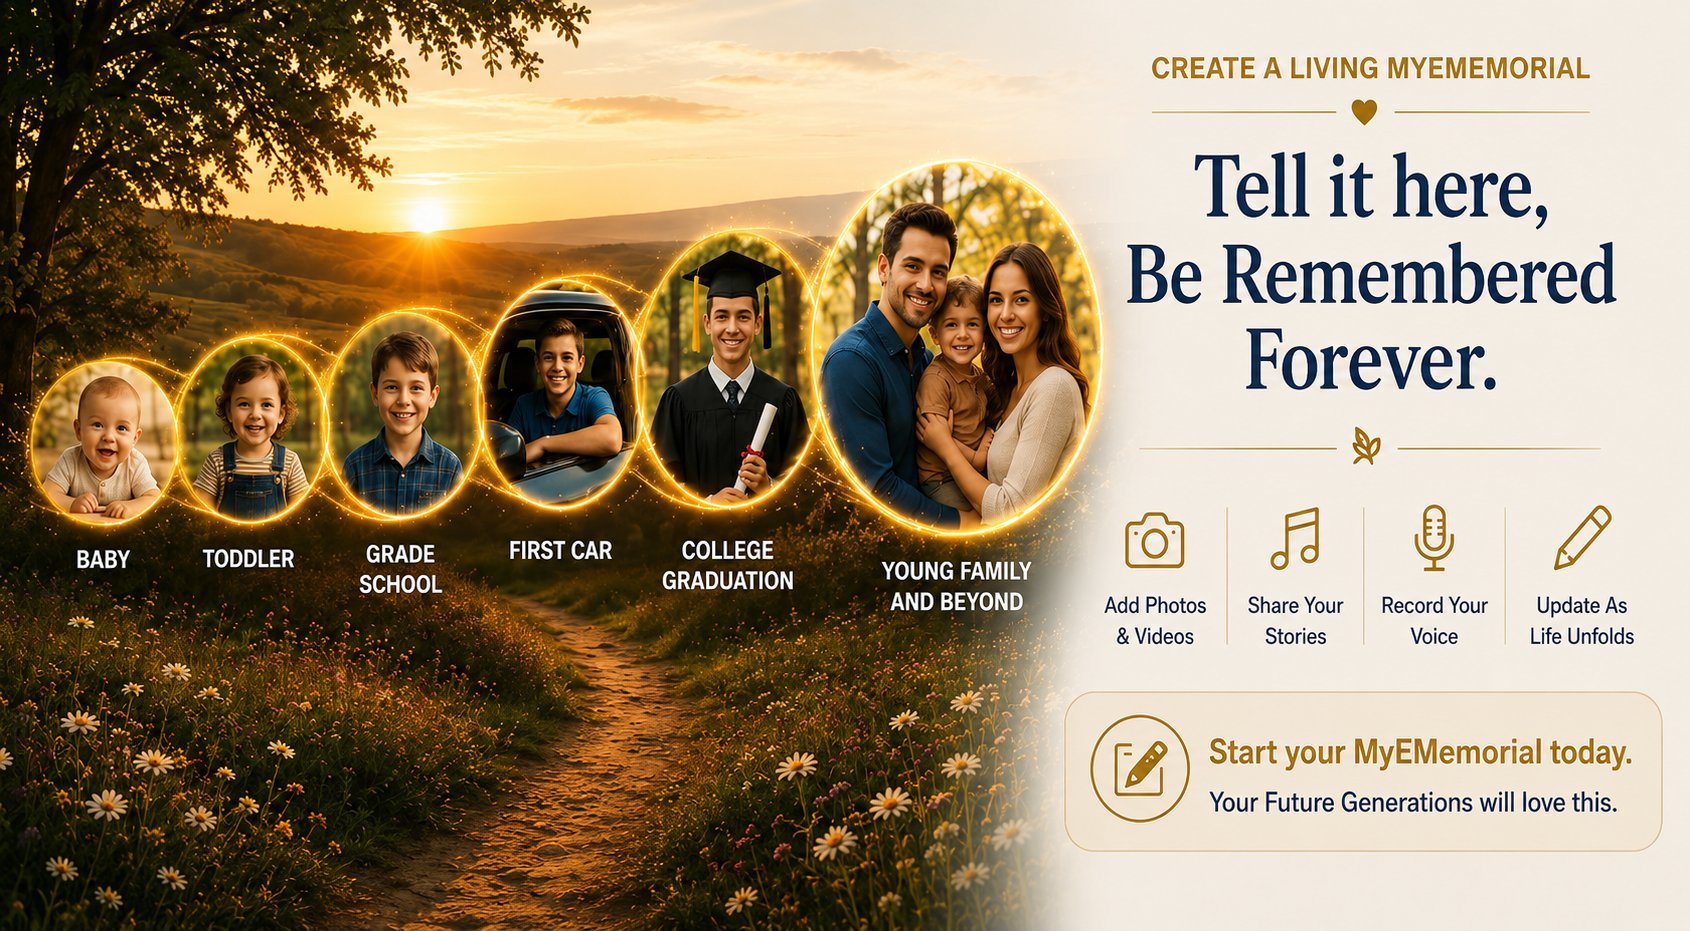
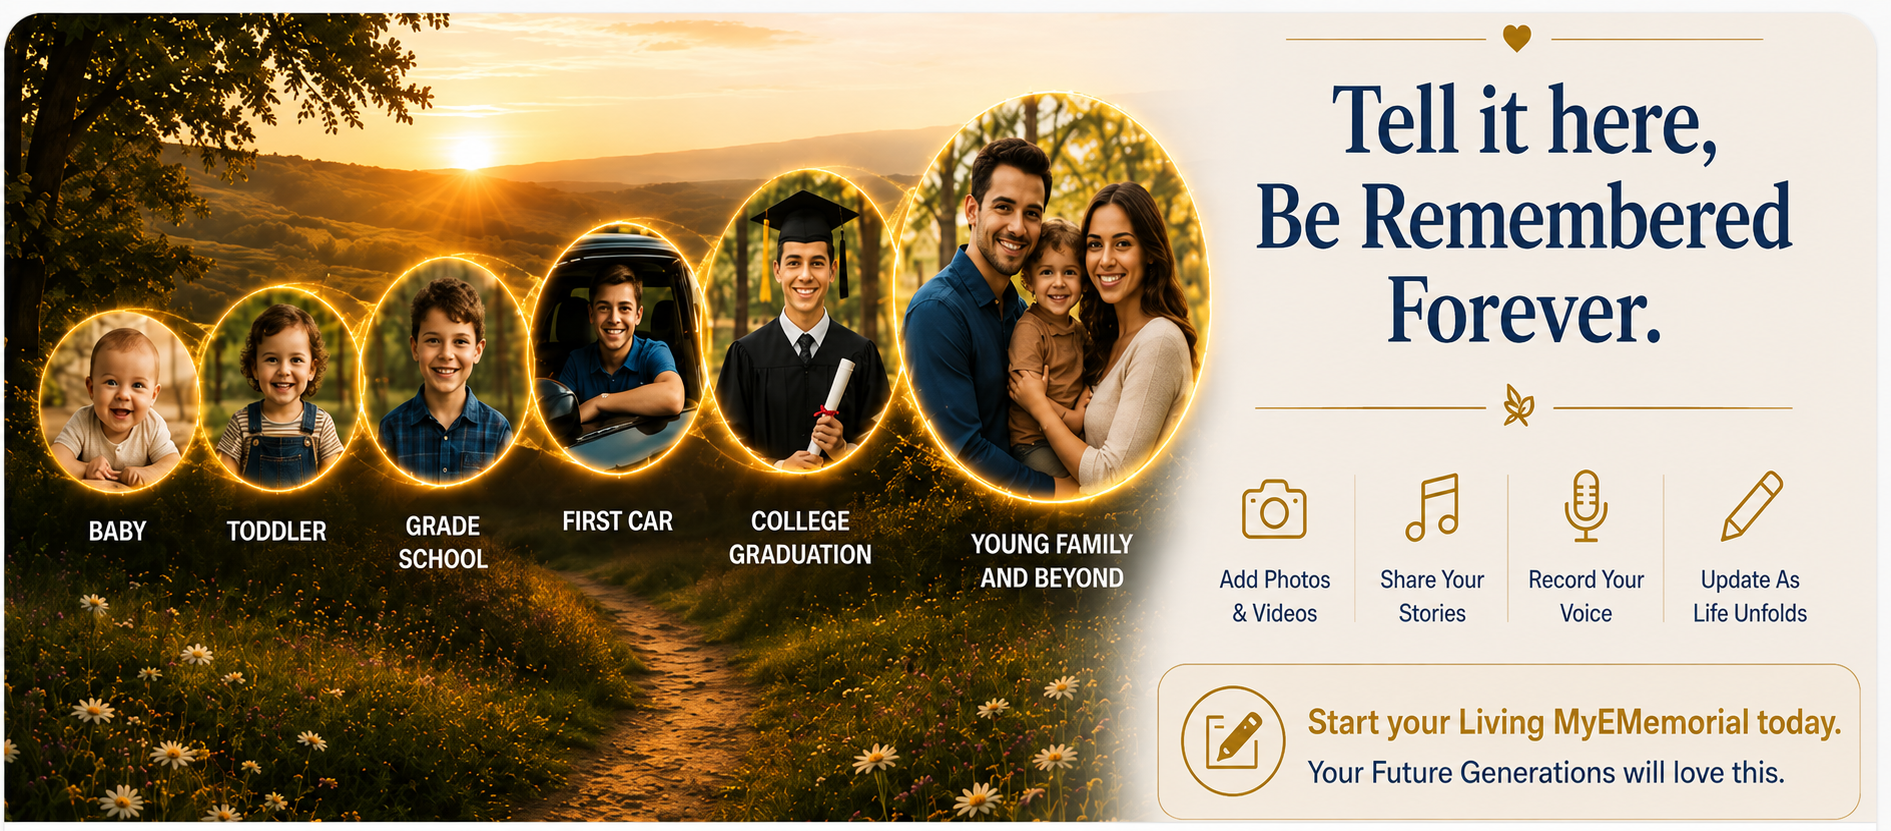
Complete final smoke test wording updates

diff --git a/app/personal-e-memorials/PersonalEMemorialClient.tsx b/app/personal-e-memorials/PersonalEMemorialClient.tsx
@@ -430,6 +430,7 @@ function PersonalEMemorialPageContent() {
   <li>Tell your story</li>
   <li>Add photos & videos</li>
   <li>Share with family</li>
+  <li>Plus much more</li>
 </ul>
     </div>
 
@@ -630,7 +631,7 @@ function PersonalEMemorialPageContent() {
                         "Up to 5 gallery photos",
                         "Life story",
                         "Basic personal information",
-                        "Contributor approval",
+                        "Shared Memories Approval",
                         "Public & shareable MyEMemorial",
                         "Upgrade anytime",
                       ]}
@@ -659,7 +660,7 @@ function PersonalEMemorialPageContent() {
                       "Places lived & worked",
                       "Schools & awards",
                       "Social media links",
-                      "Contributor approval",
+                      "Shared Memories Approval",
                       "__NEW_CELEBRATION_PRESENTATION__",
                     ]}
                   />
@@ -688,7 +689,7 @@ function PersonalEMemorialPageContent() {
                       "Places lived & worked",
                       "Schools & awards",
                       "Social media links",
-                      "Contributor approval",
+                      "Shared Memories Approval",
                       "__NEW_CELEBRATION_PRESENTATION__",
                     ]}
                   />
@@ -715,7 +716,7 @@ function PersonalEMemorialPageContent() {
                       "Places lived & worked",
                       "Schools & awards",
                       "Social media links",
-                      "Contributor approval",
+                      "Shared Memories Approval",
                       "__NEW_CELEBRATION_PRESENTATION__",
                     ]}
                   />

diff --git a/app/memorials/MemorialsClient.tsx b/app/memorials/MemorialsClient.tsx
@@ -520,7 +520,7 @@ export default function MemorialsPage() {
                       "Up to 5 gallery photos",
                       "Life story",
                       "Basic personal information",
-                      "Contributor approval",
+                      "Shared Memories Approval",
                       "Public & shareable MyEMemorial",
                       "Upgrade anytime",
                     ]}
@@ -539,7 +539,7 @@ export default function MemorialsPage() {
                       "Places lived & worked",
                       "Schools & awards",
                       "Social media links",
-                      "Contributor approval",
+                      "Shared Memories Approval",
                       "__NEW_CELEBRATION_PRESENTATION__",
                     ]}
                   />
@@ -559,7 +559,7 @@ export default function MemorialsPage() {
                       "Places lived & worked",
                       "Schools & awards",
                       "Social media links",
-                      "Contributor approval",
+                      "Shared Memories Approval",
                       "__NEW_CELEBRATION_PRESENTATION__",
                     ]}
                   />
@@ -577,7 +577,7 @@ export default function MemorialsPage() {
                       "Places lived & worked",
                       "Schools & awards",
                       "Social media links",
-                      "Contributor approval",
+                      "Shared Memories Approval",
                       "__NEW_CELEBRATION_PRESENTATION__",
                     ]}
                   />

diff --git a/app/login/LoginClient.tsx b/app/login/LoginClient.tsx
@@ -305,7 +305,7 @@ return;
           className="mt-7 block rounded-2xl border border-stone-300 bg-white p-6 transition hover:bg-stone-50"
         >
           <span className="block text-xl font-bold text-stone-900">
-            Memorial Owner Login
+            MyEMemorial Member Login
           </span>
 
           <span className="mt-2 block text-base leading-7 text-stone-600">
@@ -369,7 +369,7 @@ if (isChoiceMode) {
     ? "Create Account"
     : isBackupMode
       ? "Backup Person Login"
-      : "Memorial Owner Login"}
+      : "MyEMemorial Member Login"}
 </h1>
 
      
@@ -379,7 +379,7 @@ if (isChoiceMode) {
     ? "Create your account first so your memorial ownership is saved correctly."
     : isBackupMode
       ? "Enter the email address and password assigned to you by the owner of the Living MyEMemorial."
-      : "Log in to access and manage your memorials."}
+      : "Log in to access and manage your MyEMemorials."}
 </p>
 
         <div className="mt-6 space-y-4">
